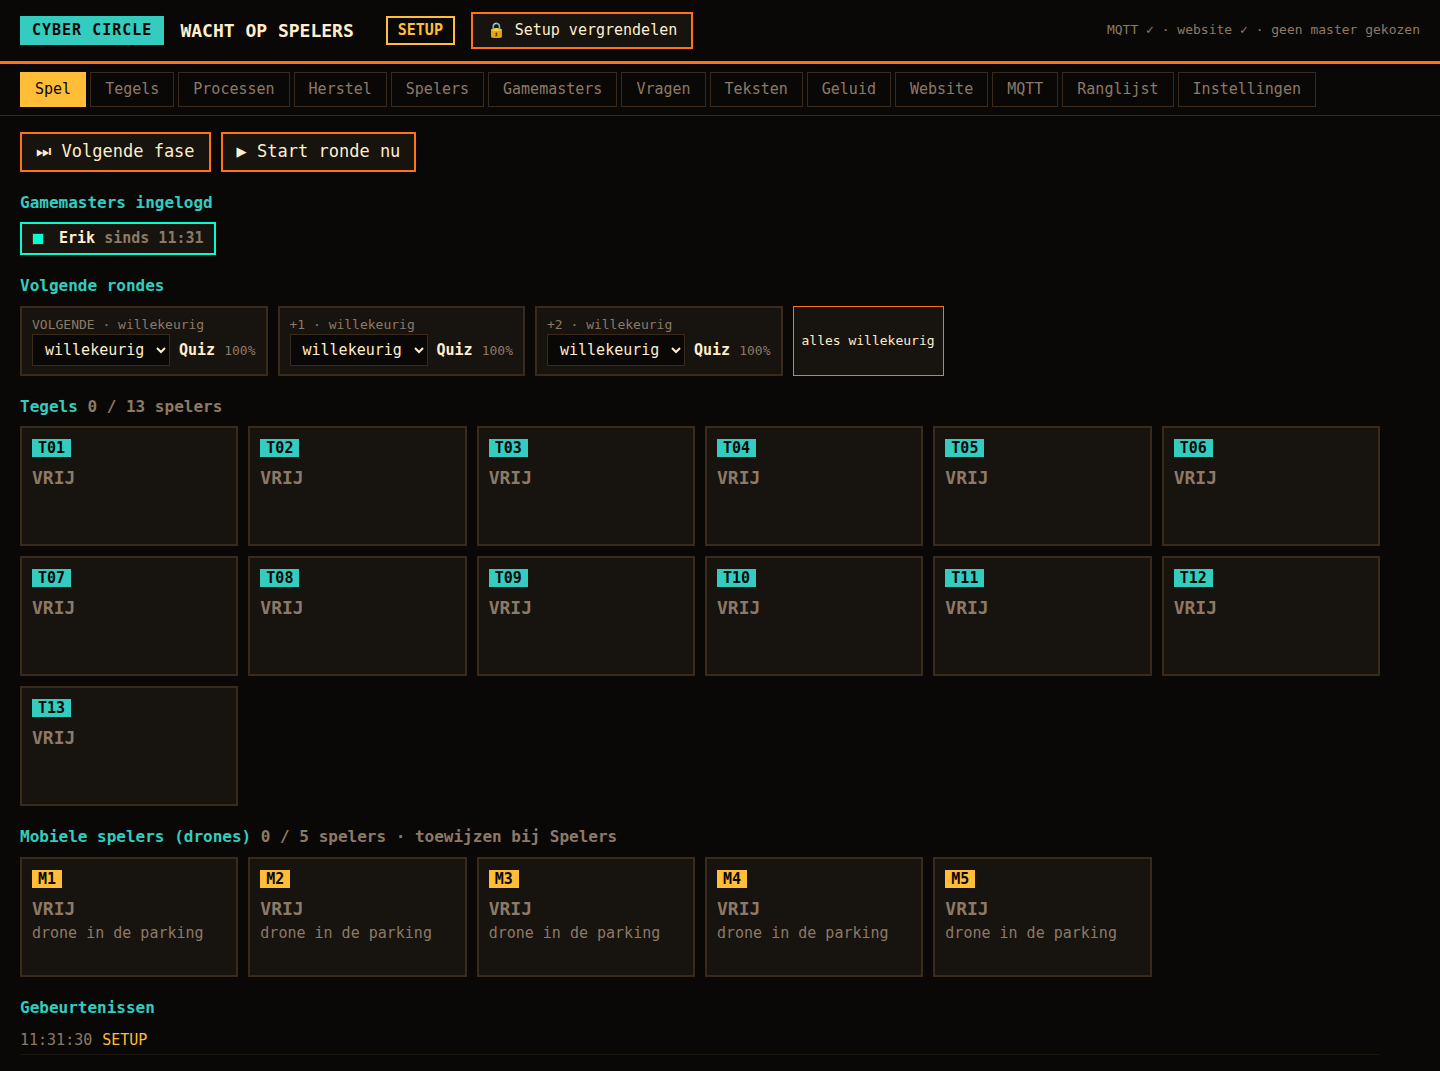
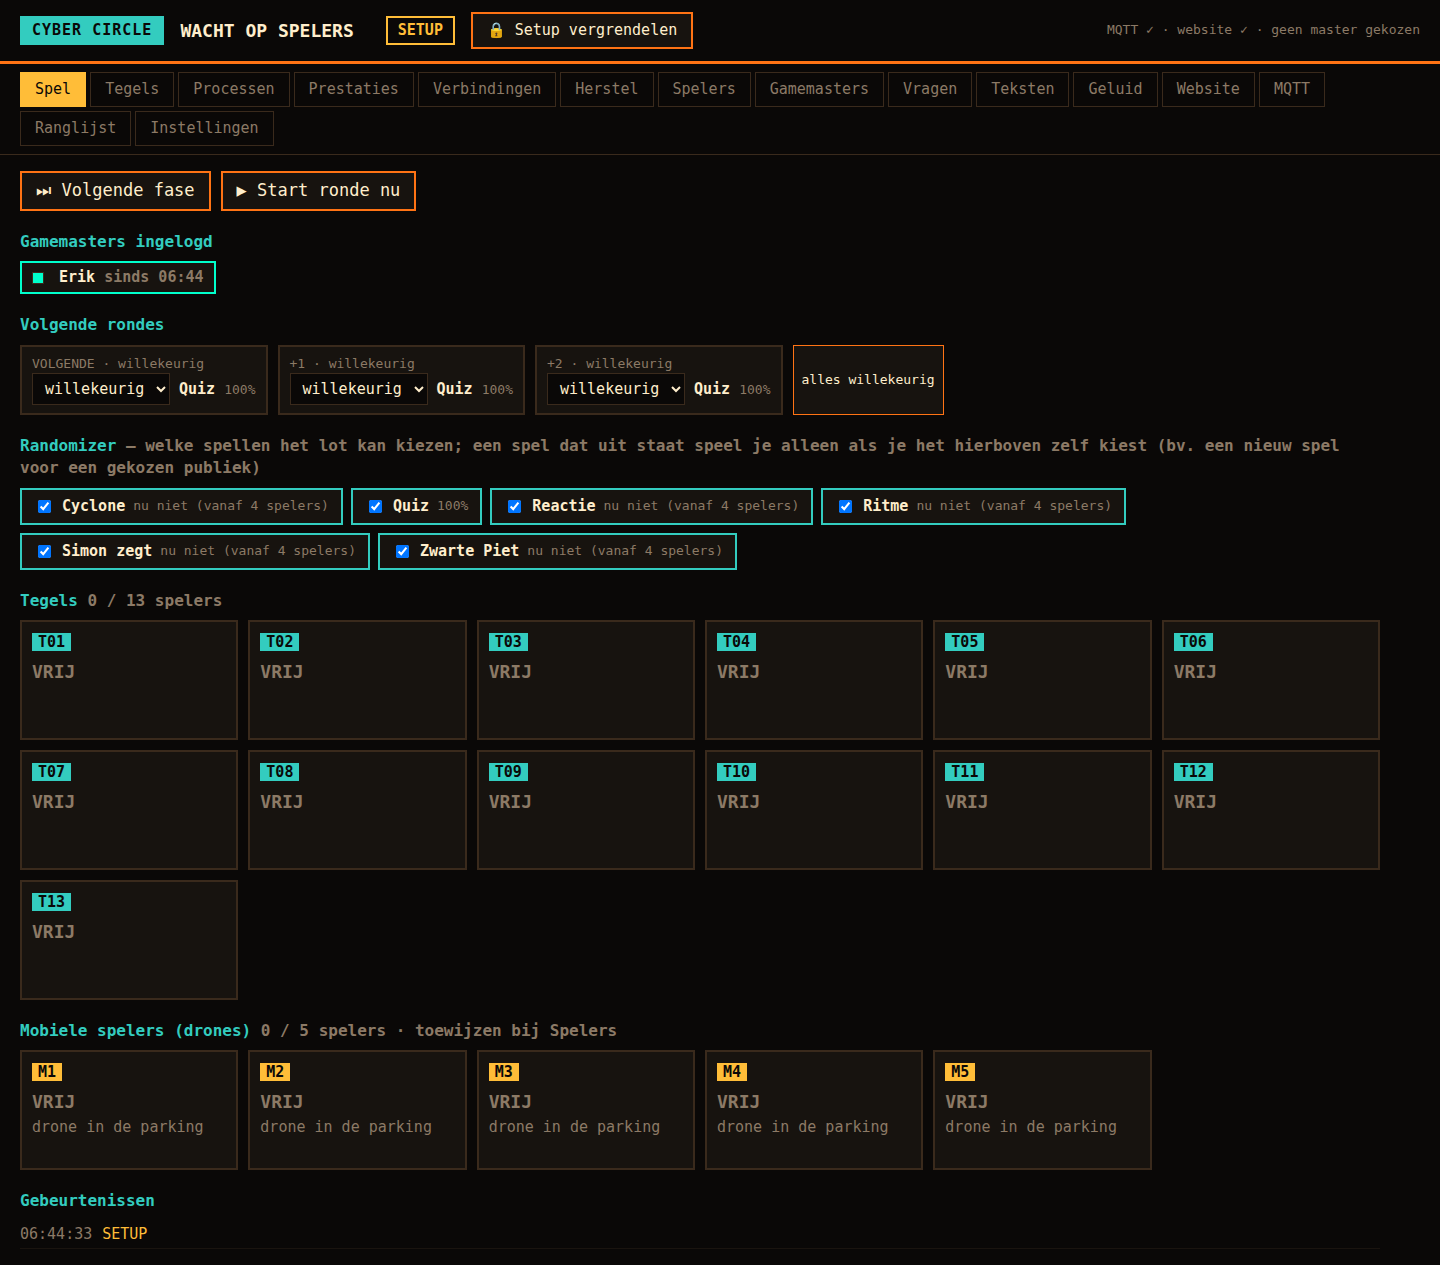
Randomizer steering in the web interface; screenshots updated
Spel › Randomizer: a checkbox per game with its chance now. A game that is out
is never drawn (a random slot already planned with it is drawn again); choosing
it in Volgende rondes still plays it - a new game for a chosen audience. Also in
Instellingen › Randomizer ("In de randomizer"); everything out: any allowed
game. Personal games show when they are not possible yet (too few players).
tests/check_randomizer.gd.

The web interface's and the app's screenshots (movies/gallery, make_gallery.py)
made again, with the randomizer (a game out), Prestaties and Verbindingen.

Claude-Session: https://claude.ai/code/session_01HqBTLK3UFNTBhoZJoGeUcD

diff --git a/control/static/app.js b/control/static/app.js
@@ -54,6 +54,7 @@ function renderLive() {
   $("#mode-buttons").innerHTML = (MODE_ACTIONS[live.mode] || []).map(([m, label, ask]) =>
     `<button data-mode="${m}" ${ask ? `data-ask="${esc(ask)}"` : ""} class="${m === "closed" && live.mode !== "setup" ? "danger" : ""}">${label}</button>`).join("");
   renderPlan(s);
+  renderRandomizer(s);
   renderTiles(s);
   renderOnline();
   $("#events").innerHTML = (live.events || []).map(e =>
@@ -135,11 +136,29 @@ function renderPlan(s) {
   el.innerHTML = (s.plan || []).map((p, i) => `<div class="slot ${p.forced ? "forced" : ""}">
       <div class="n">${i === 0 ? "VOLGENDE" : `+${i}`} · ${p.forced ? "gekozen" : "willekeurig"}</div>
       <select data-slot="${i}"><option value="">willekeurig</option>
-        ${types.map(t => `<option value="${t.type}" ${p.forced && p.type === t.type ? "selected" : ""}>${esc(t.title)}</option>`).join("")}
+        ${types.map(t => `<option value="${t.type}" ${p.forced && p.type === t.type ? "selected" : ""}>${esc(t.title)}${t.random === false ? " (uit de randomizer)" : ""}</option>`).join("")}
       </select> ${p.forced ? "" : `<b>${esc(p.title)}</b> <span class="chance" title="kans bij het loten">${Math.round((p.chance ?? 1) * 100)}%</span>`}
       ${p.type === "quiz" && p.forced ? `<input data-slot="${i}" placeholder="categorieën (komma's)" value="${esc((p.options?.categories || []).join(", "))}">` : ""}
     </div>`).join("") + `<button class="small" id="plan-random">alles willekeurig</button>`;
 }
+// the randomizer: which games the draw can pick (out: only when planned above)
+function renderRandomizer(s) {
+  const el = $("#randomizer");
+  const types = s.round_types || [];
+  el.innerHTML = types.map(t => `<label class="${t.random === false ? "off" : "on"}" title="gewicht ${t.weight ?? 1} (Instellingen › Randomizer)">
+      <input type="checkbox" data-random="${esc(t.type)}" ${t.random === false ? "" : "checked"}>
+      <b>${esc(t.title)}</b> <span class="chance">${t.random === false ? "uit"
+        : t.allowed === false ? `nu niet (vanaf ${t.min_players} spelers)` : Math.round((t.chance ?? 0) * 100) + "%"}</span></label>`).join("")
+    || `<span class="hint">Nog geen spel verbonden.</span>`;
+}
+$("#randomizer").onchange = async e => {
+  const box = e.target.closest("input[data-random]");
+  if (!box) return;
+  const cur = await (await fetch("/api/settings")).json();       // (the other settings stay as they are)
+  const values = cur.values || {};
+  values.randomizer = { ...(values.randomizer || {}), ["use_" + box.dataset.random]: box.checked ? 1 : 0 };
+  await api("PUT", "/api/settings", values);
+};
 $("#plan").onchange = e => {
   const slot = Number(e.target.dataset.slot);
   if (e.target.matches("select")) return api("POST", "/api/plan", { slot, round: e.target.value });

diff --git a/control/static/style.css b/control/static/style.css
@@ -124,6 +124,14 @@ dialog label input, dialog label textarea, dialog label select { display: block;
 .install-place { display: inline-flex; align-items: center; gap: 4px; padding: 4px 8px; border: 1px solid var(--line); }
 .install-place.mobile { border-color: var(--amber); }
 
+/* Randomizer (Spel tab) */
+.randomizer { display: flex; flex-wrap: wrap; gap: 8px; margin-bottom: 8px; }
+.randomizer label { display: flex; align-items: center; gap: 8px; background: var(--panel); border: 2px solid var(--line);
+  padding: 6px 12px; cursor: pointer; }
+.randomizer label.on { border-color: var(--teal); }
+.randomizer label.off { opacity: .6; border-style: dashed; }
+.randomizer .chance { color: var(--dim); font-size: 13px; }
+
 /* Prestaties */
 .warn { color: var(--amber); }
 .perf-cards { display: flex; flex-wrap: wrap; gap: 8px; margin: 10px 0; }

diff --git a/control/static/index.html b/control/static/index.html
@@ -43,6 +43,9 @@
   <div id="gm-online" class="gm-online"></div>
   <h2>Volgende rondes</h2>
   <div id="plan" class="plan"></div>
+  <h2>Randomizer <span class="hint">– welke spellen het lot kan kiezen; een spel dat uit staat speel je alleen
+    als je het hierboven zelf kiest (bv. een nieuw spel voor een gekozen publiek)</span></h2>
+  <div id="randomizer" class="randomizer"></div>
   <h2>Tegels <span id="tiles-count" class="hint"></span></h2>
   <div id="tiles" class="tiles"></div>
   <h2>Mobiele spelers (drones) <span id="mobile-count" class="hint"></span></h2>

diff --git a/tools/make_gallery.py b/tools/make_gallery.py
@@ -5,7 +5,8 @@ game (headless), three emulated tiles (the real firmware, tile_firmware/
 emulator) on T01-T03, and Chrome showing
   * the gamemaster app on a phone (the web version, a fake camera with QR cards)
                                                      -> movies/gallery/app/
-  * the control server's web interface, every tab   -> movies/gallery/controller/
+  * the control server's web interface, every tab (the randomizer with a game out,
+    Prestaties, Verbindingen too)                   -> movies/gallery/controller/
   * the tile emulator's top (SVG)                    -> movies/gallery/tegel/
 through setup, opening, invites, activation on the tiles, a round played on
 the tiles, the scoreboard and the registration website going down.
@@ -241,6 +242,10 @@ def main():
             until(lambda: len(state()["players"]) == 2)
             s.tile_shot(1, "speelt_levens")
             s.web("game", "spel_open_spelers_en_uitnodiging")
+            # the randomizer: a game out (only when planned: a new game for a chosen audience)
+            s.desk.click('input[data-random="zwarte_piet"]')
+            s.desk.wait_for_timeout(2500)
+            s.web("game", "spel_randomizer_zwarte_piet_uit")
             # the app: Gust's card in front of the camera -> where to go
             s.tab("Scannen")
             got = until(lambda: any(p["name"] == "Gust" for p in state()["pending"]), 40)
@@ -289,6 +294,8 @@ def main():
             s.tile_shot(2, "reactie_ronde")
             s.web("game", "spel_ronde_bezig")
             s.web("recovery", "herstel_ronde_bezig")
+            s.web("perf", "prestaties_ronde_bezig")
+            s.web("clients", "verbindingen_ronde_bezig")
             end = time.time() + 40
             while time.time() < end and state()["state"] == "PLAYING":
                 for t in (1, 2, 3):

diff --git a/docs/SETUP.md b/docs/SETUP.md
@@ -1085,6 +1085,14 @@ two at once start, band and line size, points, tile delay), *Randomizer* and *Vr
 The randomizer fills the round queue the way games steer their dice
 (`GameManager.round_chances`); the plan in *Spel* shows each round's chance.
 
+0. **In or out** per round type – *Spel › Randomizer* (a checkbox per game,
+   with its chance now; also *Instellingen › Randomizer*, "In de randomizer").
+   A game that is out is never drawn; a random slot already planned with it is
+   drawn again. Choosing it yourself in *Volgende rondes* still plays it: that
+   is how a new game is introduced to a chosen audience (a school group, a
+   test session) while the others never get it at random. Everything out: the
+   randomizer falls back to any game it is allowed to play
+   (`tests/check_randomizer.gd`).
 1. **Weight** per round type (default quiz 5, the others 1; 0 = never).
 2. **No repeat** – never the same game twice in a row (when there is a
    choice); the quiz can follow itself.
